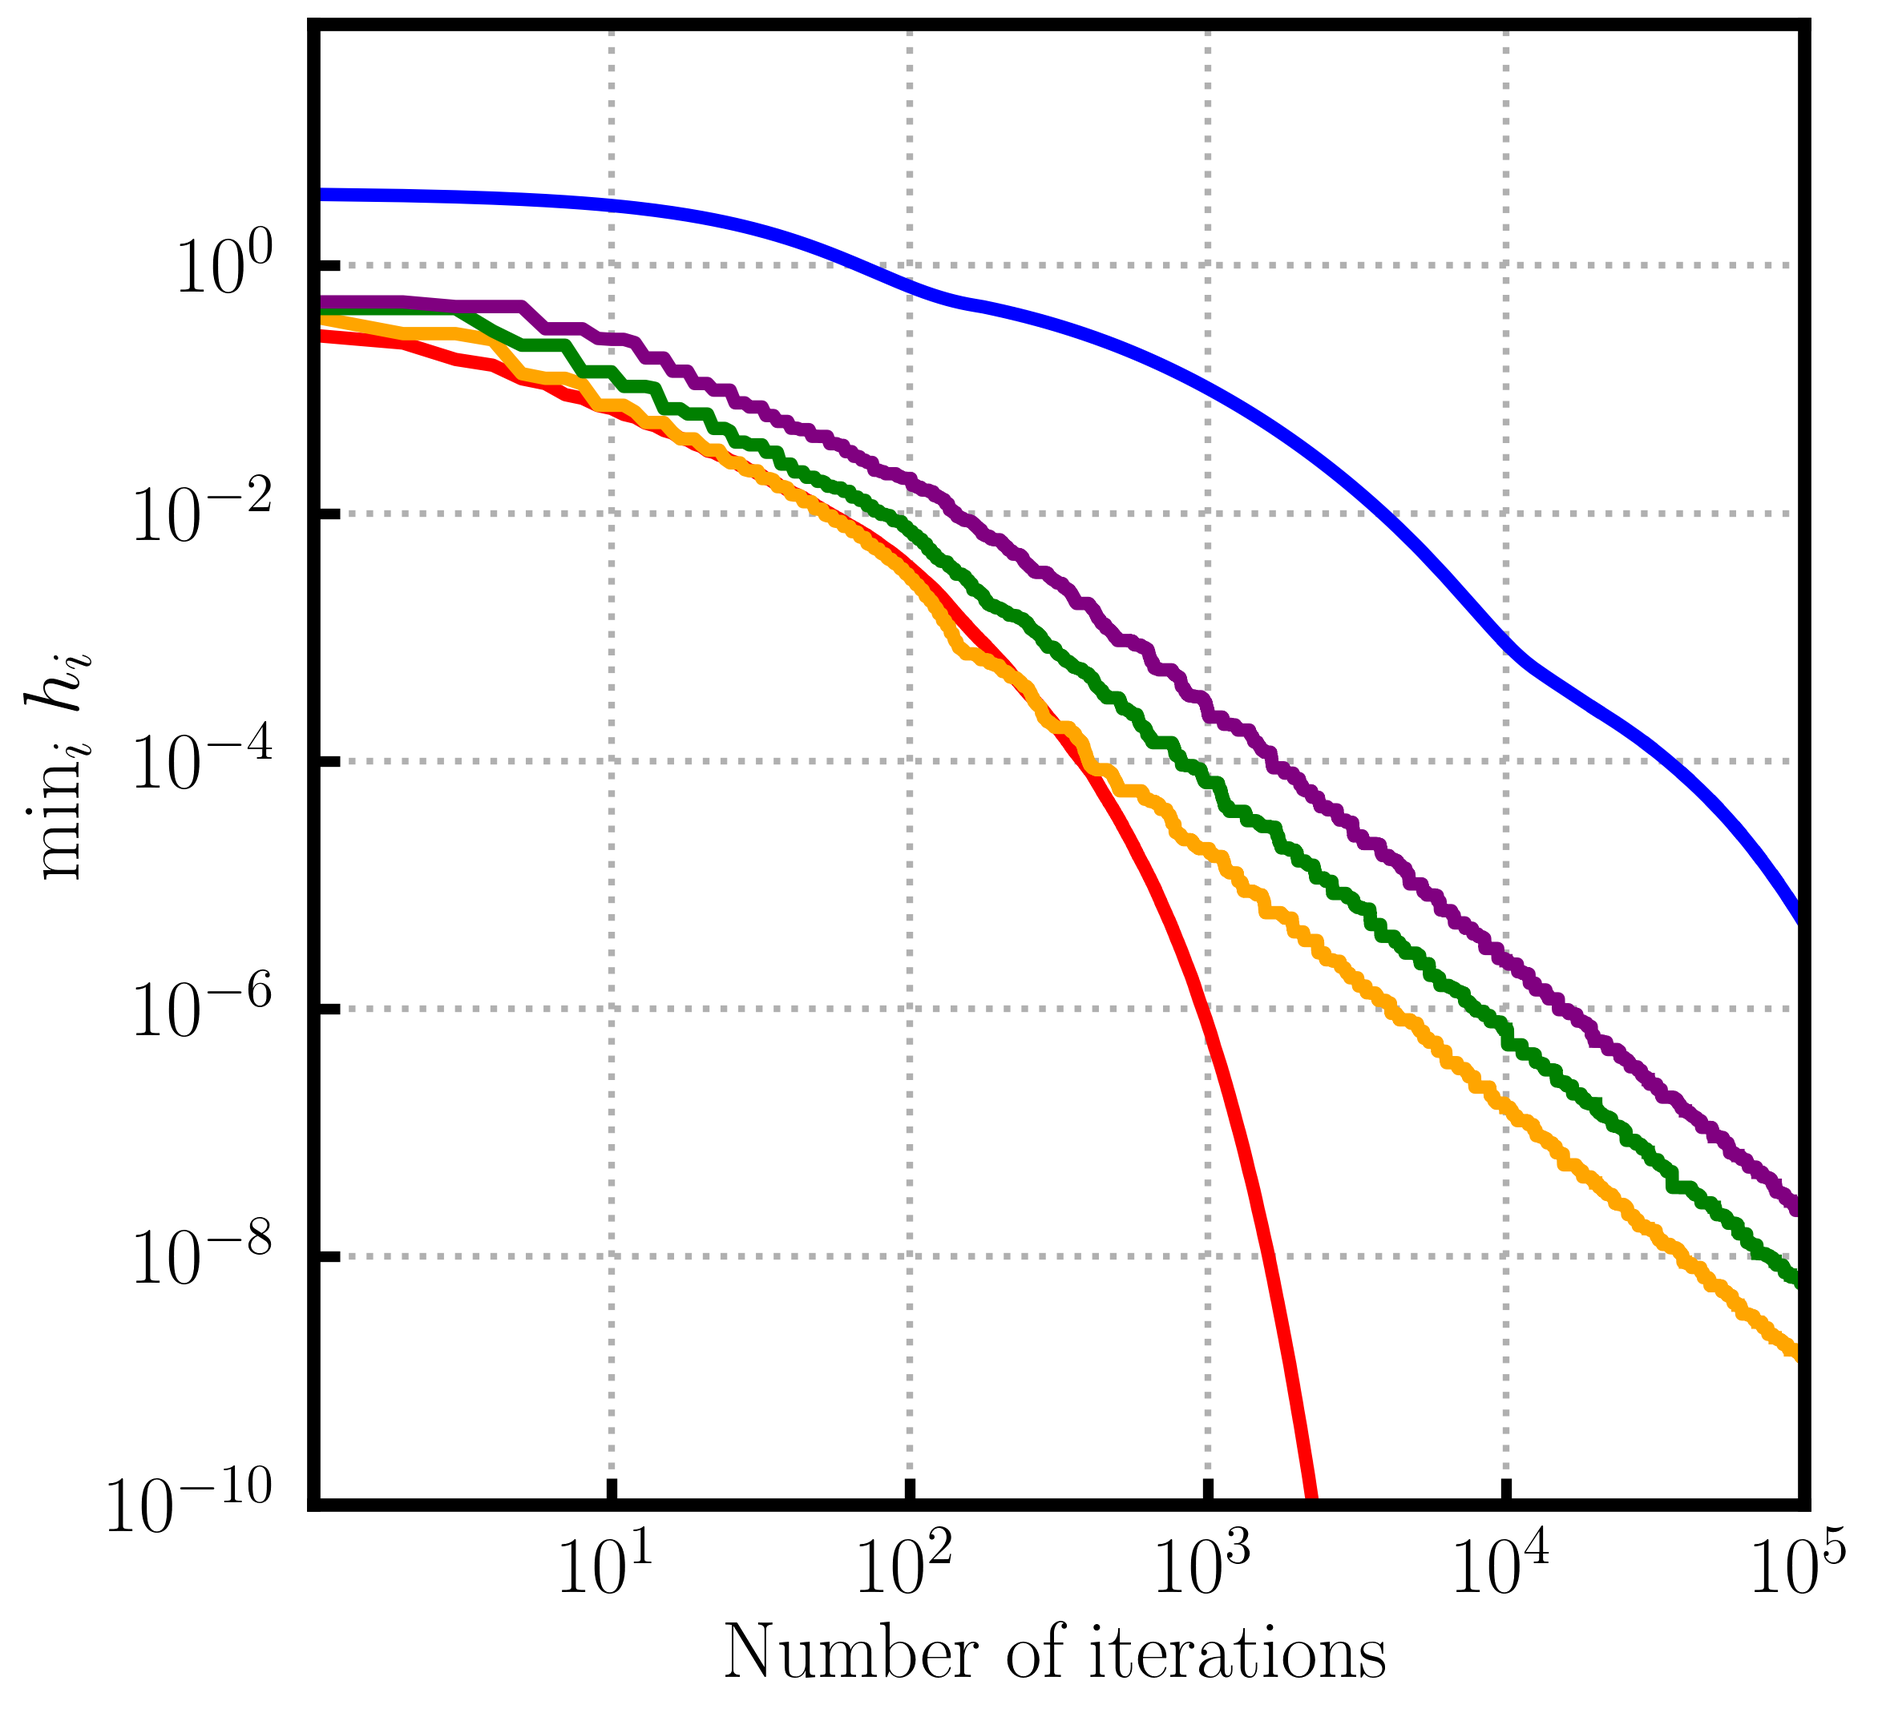
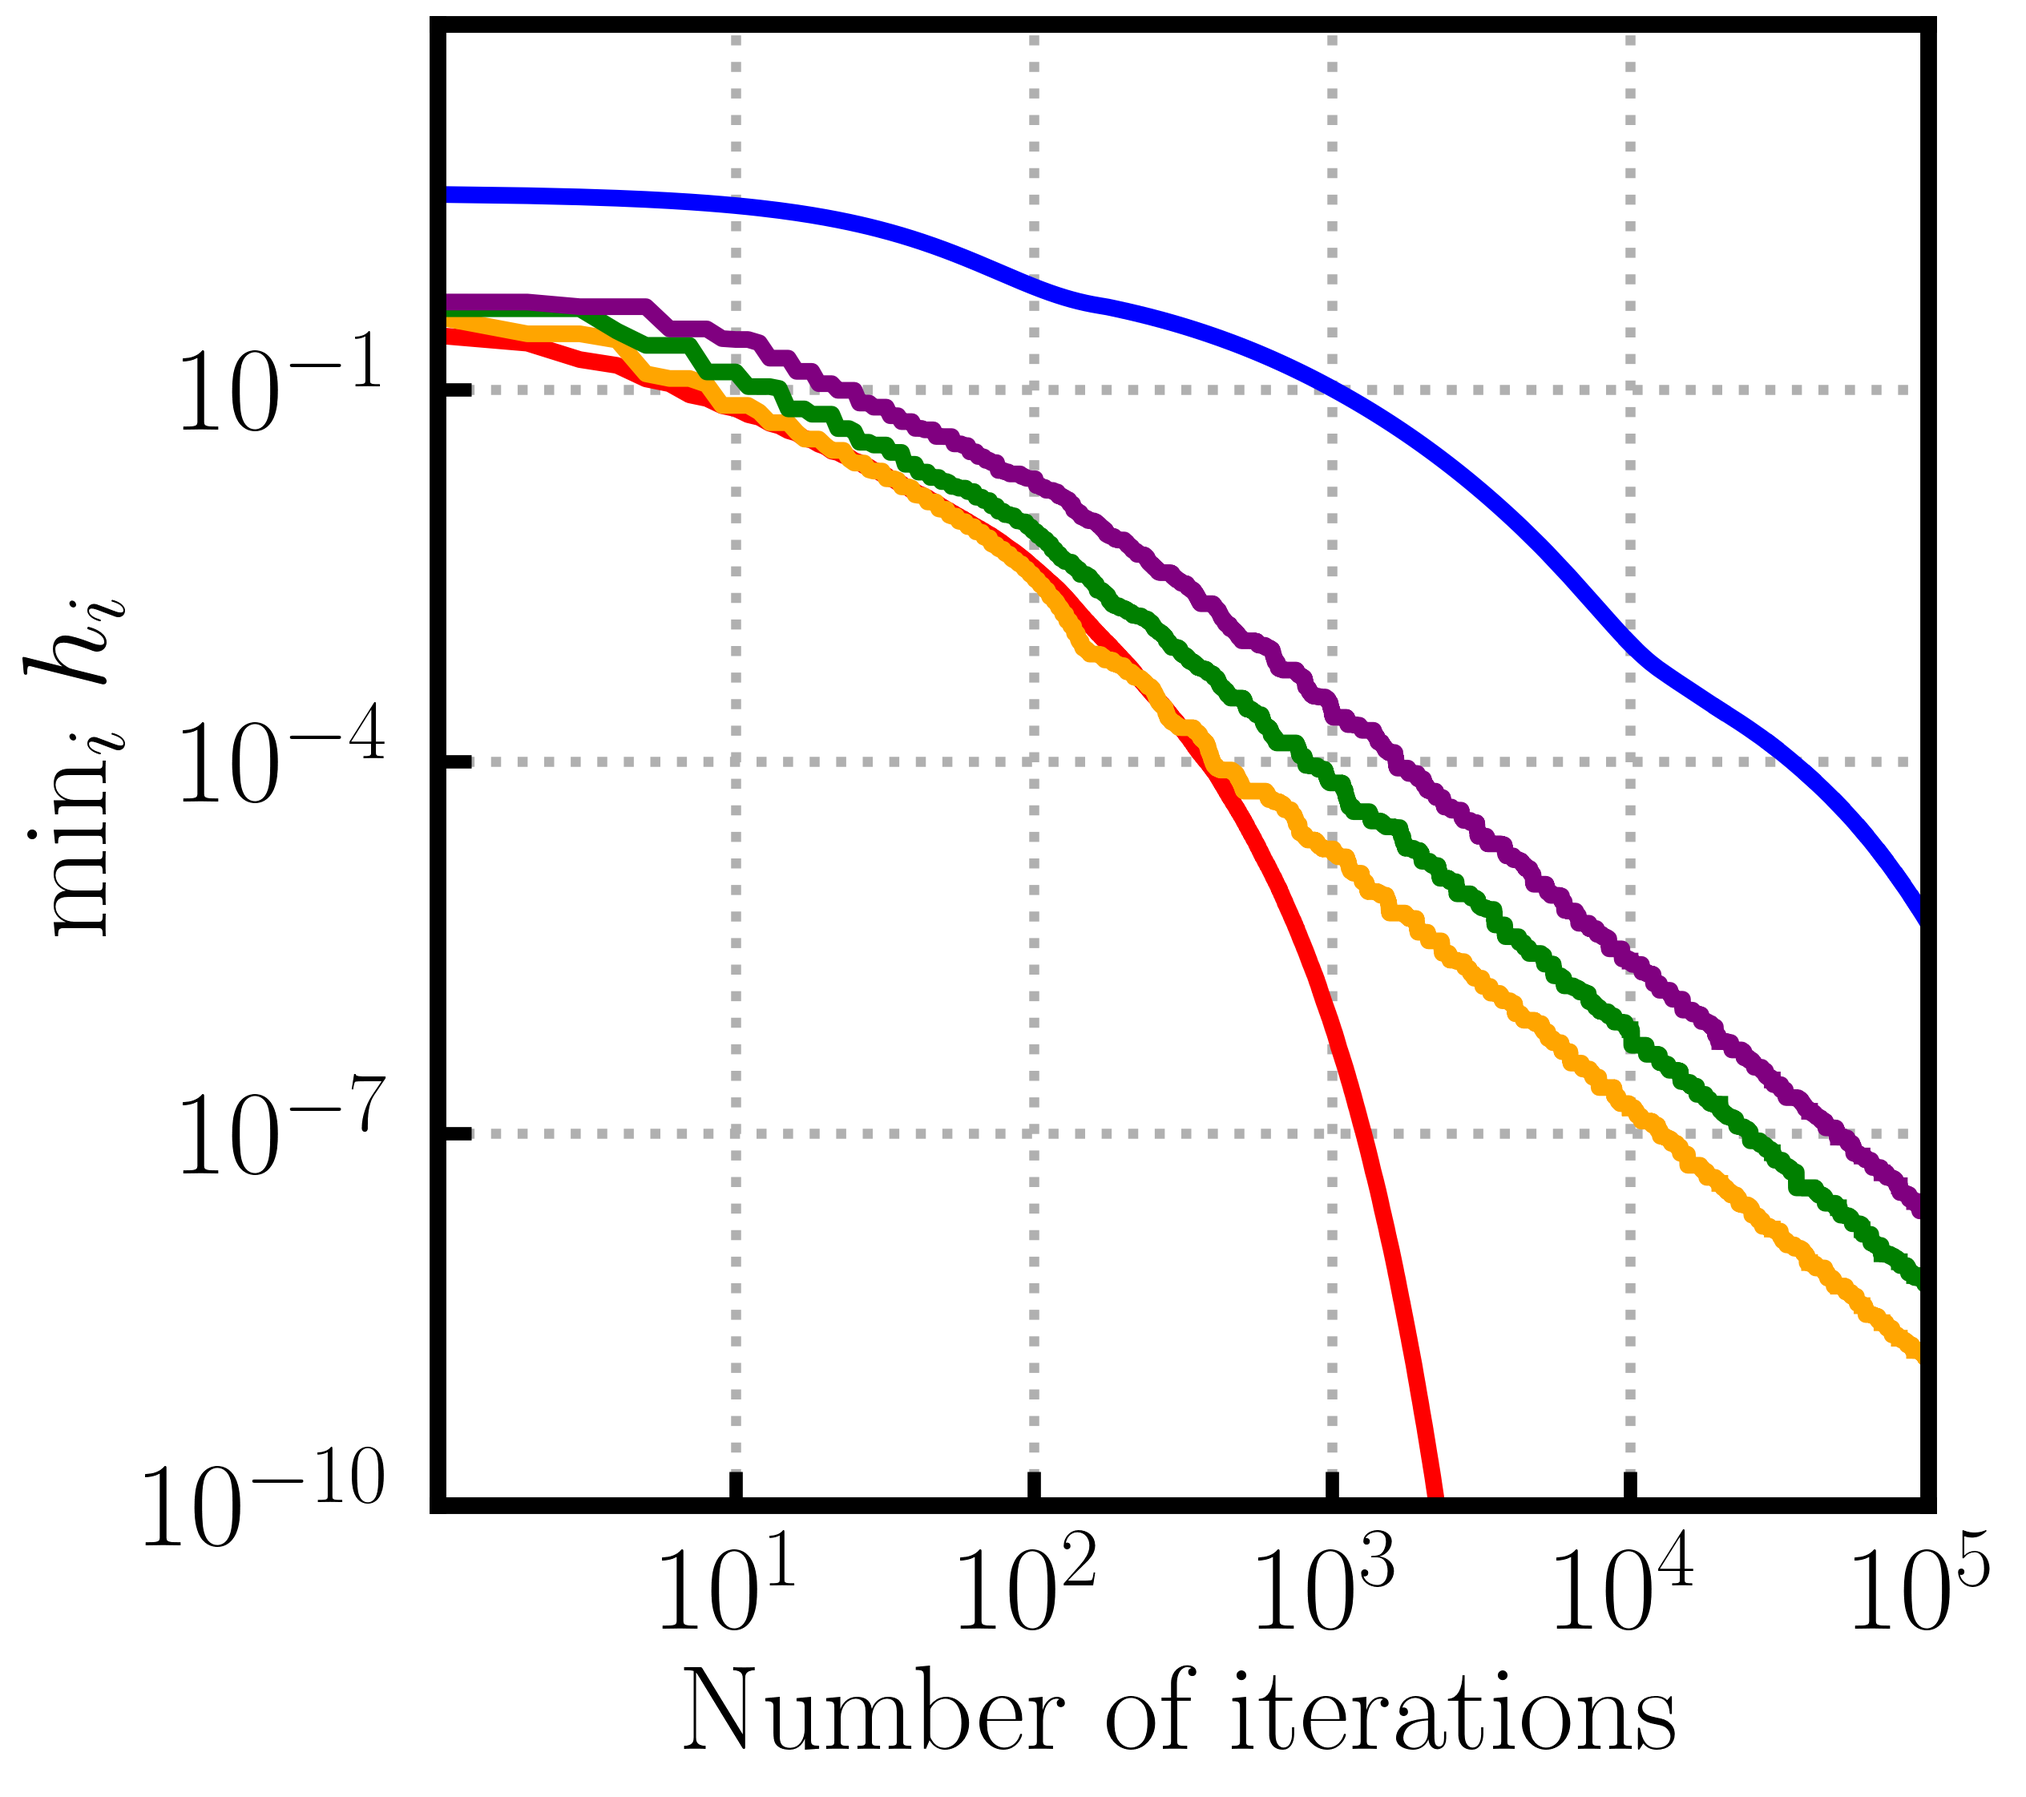
larger plots

diff --git a/global_.py b/global_.py
@@ -6,9 +6,9 @@ COLORS = [ 'red', 'blue', 'orange',  'green', 'purple', 'magenta', 'cyan', 'oliv
 MARKERS = ['o', 's', 'v', 'd', 'x', 'o', 's', 'v', 'd', 'x', 'o', 's', 'v', 'd', 'x', 'o', 's', 'v', 'd', 'x',
            's', 'v', 'd', 'x', 'o', 's', 'v', 'd', 'x', 'o', 's', 'v', 'd', 'x', 'o', 's', 'v', 'd', 'x', 'o',
            'v', 'd', 'x', 'o', 's', 'v', 'd', 'x', 'o', 's', 'v', 'd', 'x', 'o', 's', 'v', 'd', 'x', 'o', 's']
-LINEWIDTH = 4
-FONT_SIZE = 24
-FONT_SIZE_LEGEND = 12
+LINEWIDTH = 5
+FONT_SIZE = 36
+FONT_SIZE_LEGEND = 28
 CHUNKSIZE = 10000
 
 
